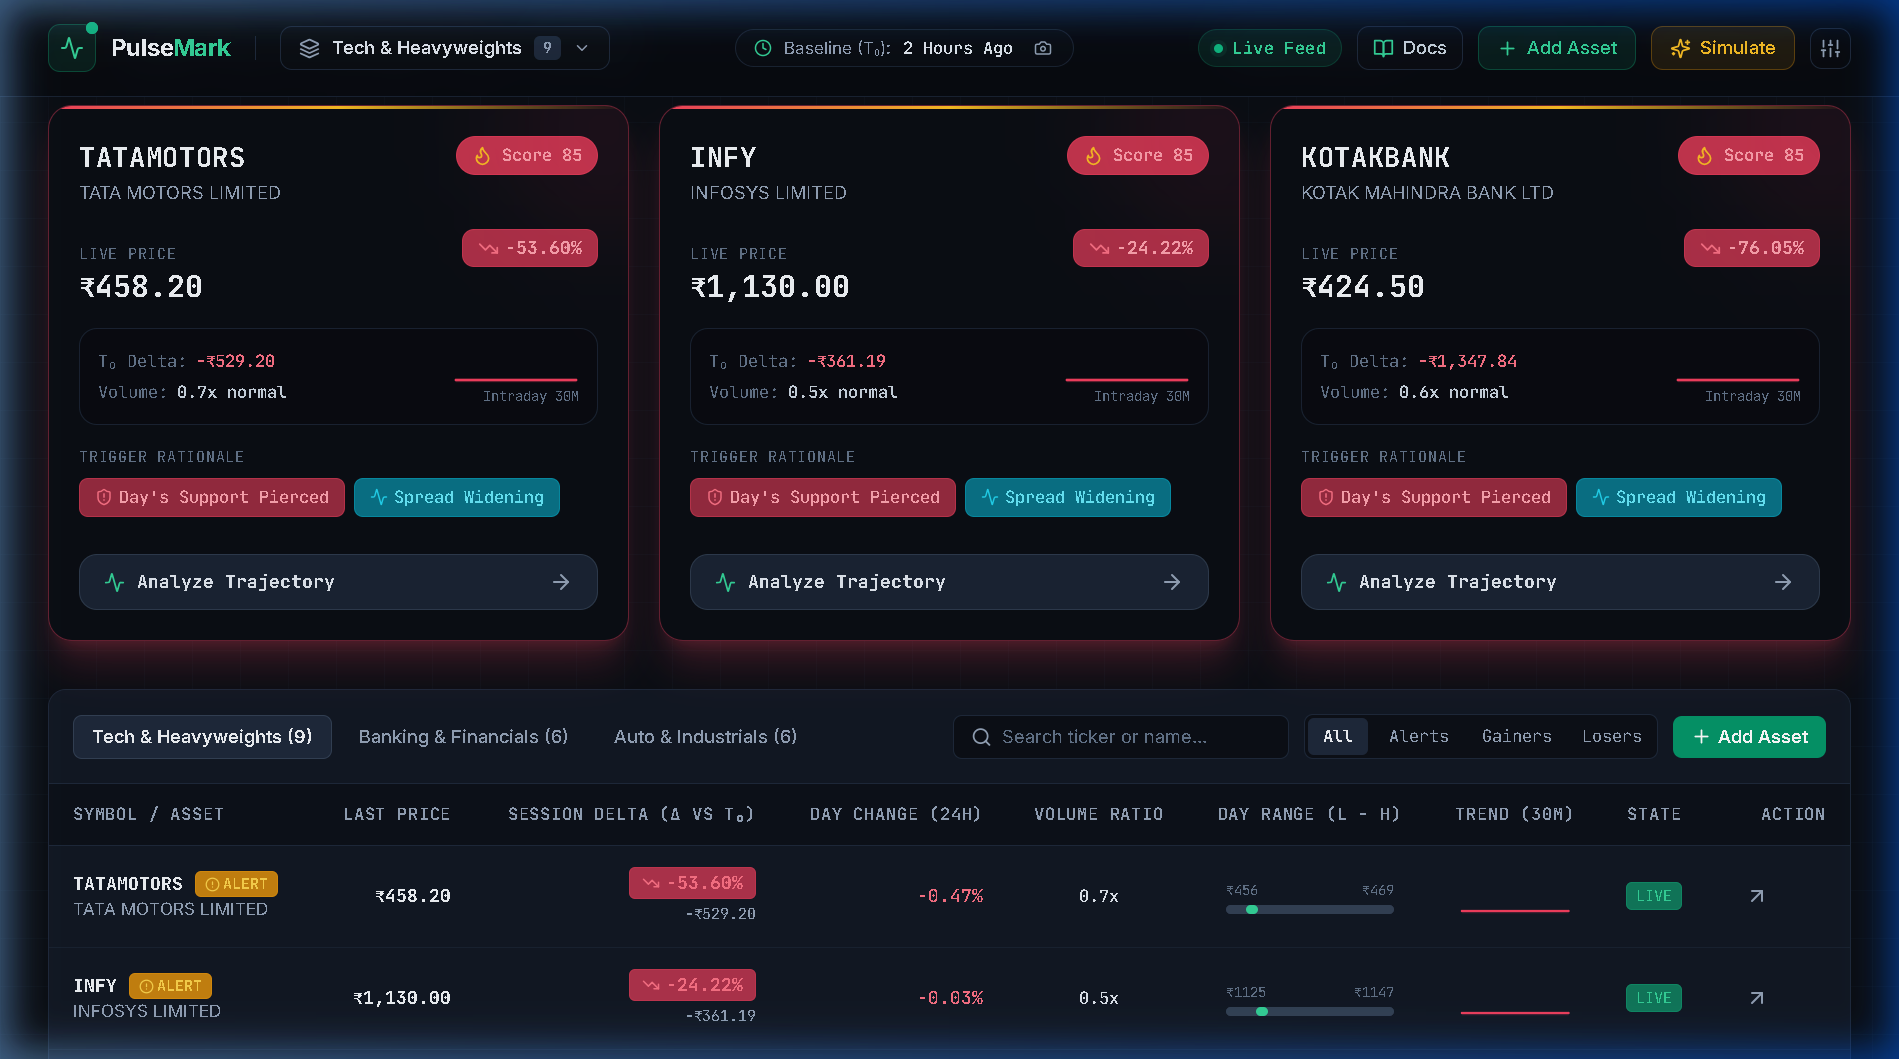
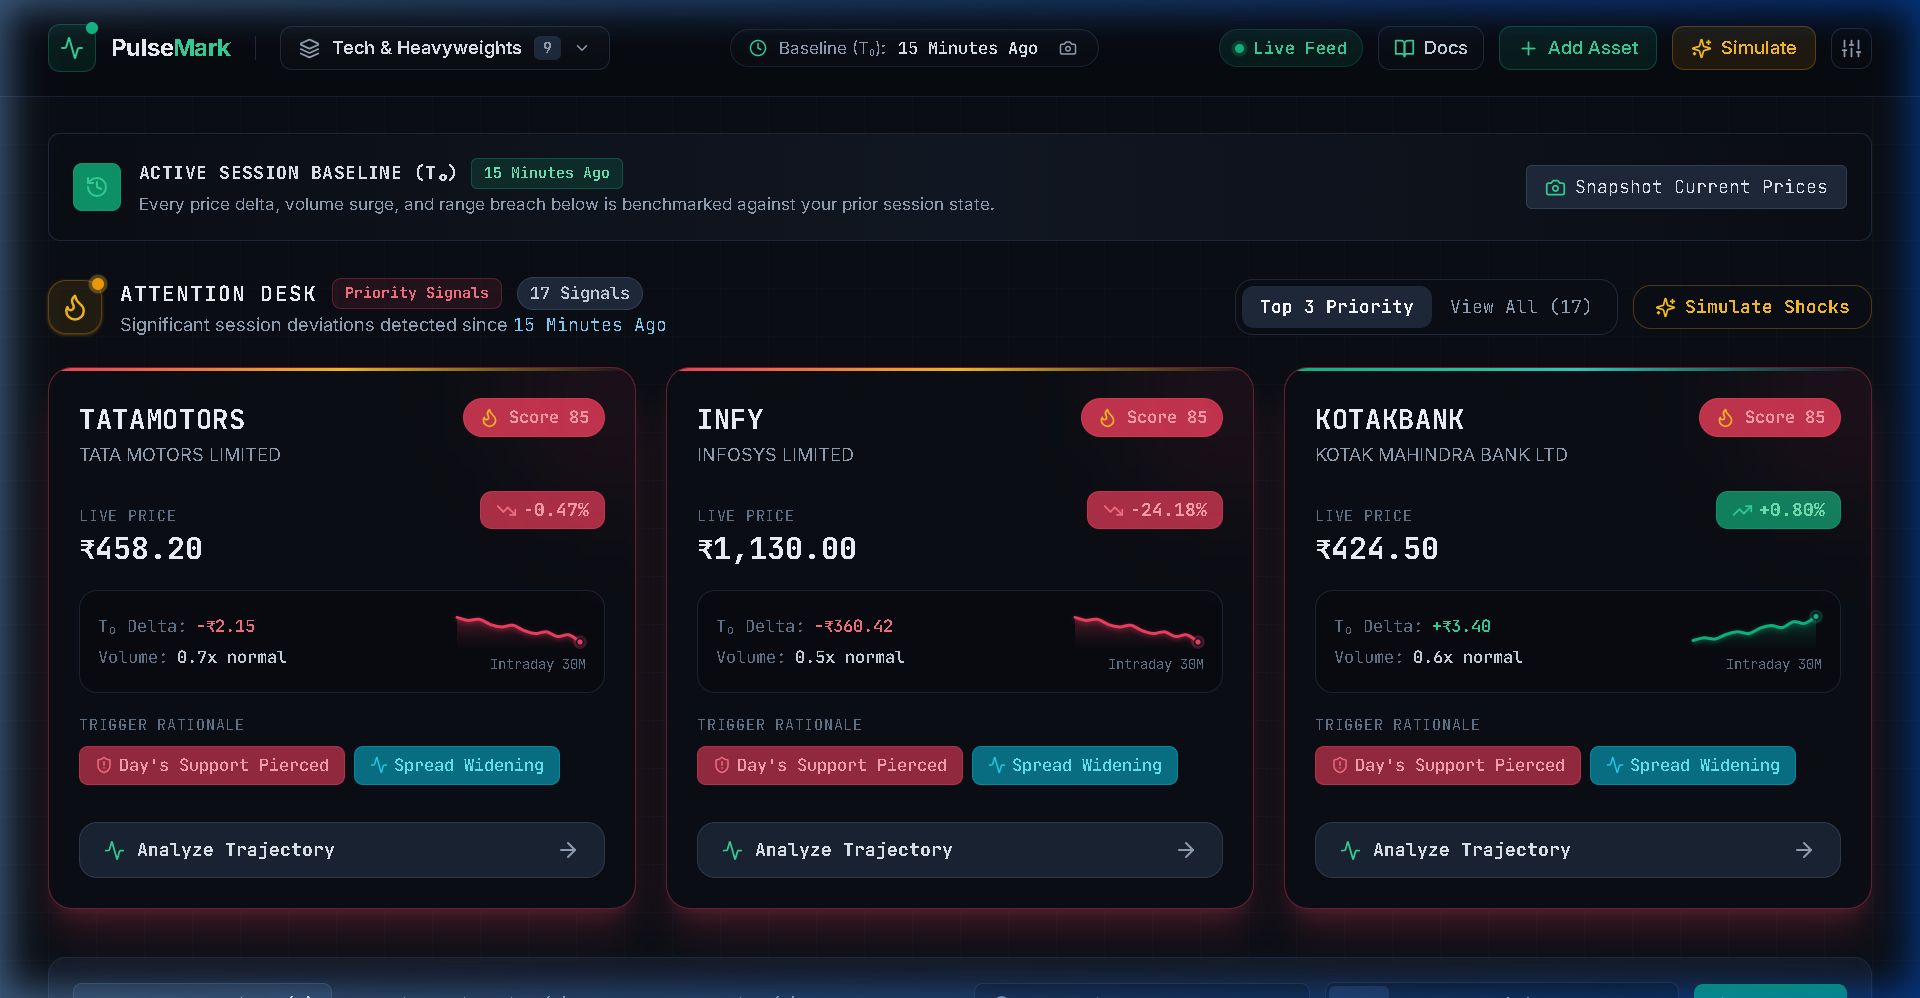
docs(readme): update all screenshots with new red/green spline curves and clean evaluator simulator UI

diff --git a/README.md b/README.md
@@ -186,6 +186,10 @@ All API routes are served under `/api` and feature automatic URL normalization.
 
 ![Main Terminal Dashboard](assets/screenshots/dashboard_overview.png)
 
+## 📊 High-Density Watchlist Matrix & 30M Trend Splines
+
+![Watchlist Matrix](assets/screenshots/watchlist_matrix.png)
+
 ## 🔬 Single Asset Deep-Dive & Continuous Financial Spline Canvas
 
 ![Stock Deep Dive](assets/screenshots/stock_deep_dive.png)
